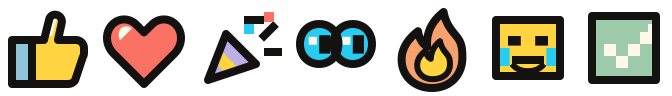
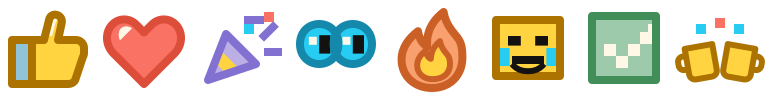
feat(reactions): update reaction sprites atlas with beers and dark-mode colored outlines (#295)

diff --git a/compose/shared/src/commonMain/kotlin/build/raft/app/thread/ThreadReactionSpriteCatalog.kt b/compose/shared/src/commonMain/kotlin/build/raft/app/thread/ThreadReactionSpriteCatalog.kt
@@ -138,7 +138,7 @@ internal val ThreadReactionSpriteCatalogV1 = ThreadReactionSpriteCatalog(
     resource = ThreadReactionSpriteAtlasResource,
     atlas = ThreadReactionAtlas(
         imageName = "reaction_atlas_v1.png",
-        width = 672,
+        width = 768,
         height = 96,
         pixelRatio = 4,
         defaultDisplaySizeDp = 18
@@ -186,9 +186,18 @@ internal val ThreadReactionSpriteCatalogV1 = ThreadReactionSpriteCatalog(
             value = "✅",
             rect = ThreadReactionSpriteRect(x = 576, y = 0, width = 96, height = 96),
             labels = mapOf("en" to "Check mark", "zh-Hans" to "完成", "zh-Hant" to "完成")
+        ),
+        ThreadReactionSprite(
+            name = "beers",
+            value = "🍻",
+            rect = ThreadReactionSpriteRect(x = 672, y = 0, width = 96, height = 96),
+            labels = mapOf("en" to "Clinking beer mugs", "zh-Hans" to "干杯", "zh-Hant" to "乾杯")
         )
     )
 )
 
+// Mirrors web QUICK_REACTION_EMOJIS (packages/web/src/components/message/reactionConstants.ts):
+// the quick-reaction strip keeps the seven core emojis even as the bundled sprite atlas grows
+// (e.g. 🍻 beers in slock #16309 renders from the atlas when added via the full picker).
 internal val ThreadQuickReactionEmojis: List<String> =
-    ThreadReactionSpriteCatalogV1.reactions.map { it.value }
+    listOf("👍", "❤", "🎉", "👀", "🔥", "😂", "✅")

diff --git a/compose/shared/src/commonTest/kotlin/build/raft/app/ThreadReactionSpriteCatalogTest.kt b/compose/shared/src/commonTest/kotlin/build/raft/app/ThreadReactionSpriteCatalogTest.kt
@@ -9,12 +9,21 @@ import kotlin.test.assertTrue
 class ThreadReactionSpriteCatalogTest {
     @Test
     fun catalogResolvesCanonicalValuesAndAliases() {
+        assertEquals(8, ThreadReactionSpriteCatalogV1.reactions.size)
+        assertEquals(768, ThreadReactionSpriteCatalogV1.atlas.width)
         assertNotNull(ThreadReactionSpriteCatalogV1.resolve("✅"))
         assertNull(ThreadReactionSpriteCatalogV1.resolve("☑"))
         // "❤" (without VS16) is a canonical alias of "❤" in reactions.json.
         val heart = assertNotNull(ThreadReactionSpriteCatalogV1.resolve("❤"))
         assertEquals("heart", heart.name)
         assertEquals(ThreadReactionSpriteCatalogV1.resolve("❤"), heart)
+        // 🍻 joins the bundled sprite atlas (#16309) without expanding the 7-item quick bar.
+        val beers = assertNotNull(ThreadReactionSpriteCatalogV1.resolve("🍻"))
+        assertEquals("beers", beers.name)
+        assertEquals(ThreadReactionSpriteRect(x = 672, y = 0, width = 96, height = 96), beers.rect)
+        assertEquals("干杯", beers.label("zh-Hans-CN"))
+        assertEquals("Clinking beer mugs", beers.label("en"))
+        assertEquals(listOf("👍", "❤", "🎉", "👀", "🔥", "😂", "✅"), ThreadQuickReactionEmojis)
     }
 
     @Test

diff --git a/change-logs/1.29.0/changesets/reaction-sprites-beers-and-dark-outlines.md b/change-logs/1.29.0/changesets/reaction-sprites-beers-and-dark-outlines.md
@@ -1,0 +1,8 @@
+---
+category: improved
+area: thread
+platforms: [android, ios, desktop]
+pull_request: 0
+---
+
+Bundle the clinking beer mugs (`🍻`) Raft reaction sprite and refresh all eight reaction sprites with colored dark-mode-readable outlines to match the web.
